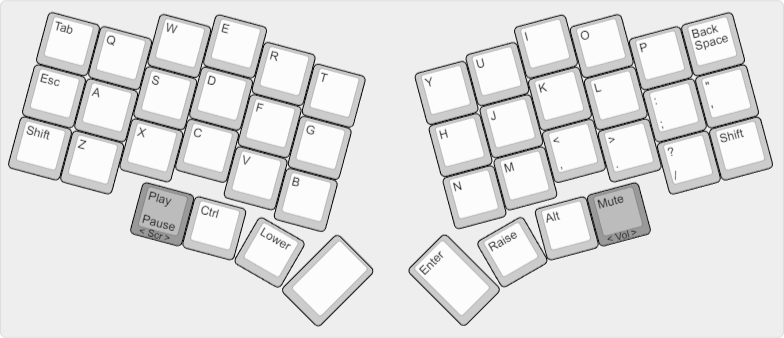
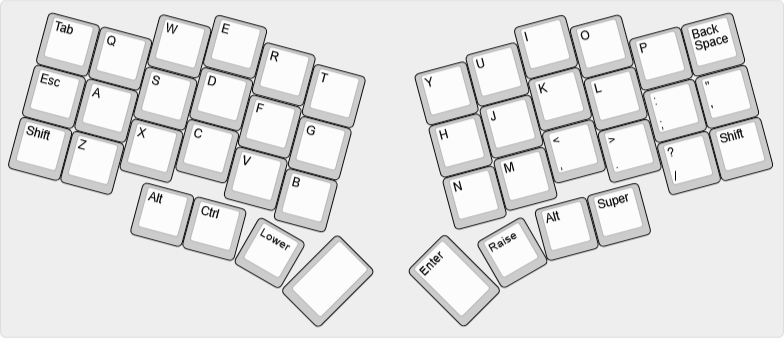
Standardize ergo bottom row keys

diff --git a/keyboards/yanghu/unicorne/keymaps/bcat/keymap.c b/keyboards/yanghu/unicorne/keymaps/bcat/keymap.c
@@ -15,7 +15,7 @@ const uint16_t PROGMEM keymaps[][MATRIX_ROWS][MATRIX_COLS] = {
         KC_TAB,   KC_Q,     KC_W,     KC_E,     KC_R,     KC_T,                         KC_Y,     KC_U,     KC_I,     KC_O,     KC_P,     KC_BSPC,
         KC_ESC,   KC_A,     KC_S,     KC_D,     KC_F,     KC_G,                         KC_H,     KC_J,     KC_K,     KC_L,     KC_SCLN,  KC_QUOT,
         KC_LSFT,  KC_Z,     KC_X,     KC_C,     KC_V,     KC_B,                         KC_N,     KC_M,     KC_COMM,  KC_DOT,   KC_SLSH,  KC_RSFT,
-                                      KC_MPLY,  KC_LCTL,  TL_LOWR,  KC_SPC,   KC_ENT,   TL_UPPR,  KC_RALT,  KC_MUTE
+                                      KC_LALT,  KC_LCTL,  TL_LOWR,  KC_SPC,   KC_ENT,   TL_UPPR,  KC_RALT,  KC_RGUI
     ),
     [LAYER_LOWER] = LAYOUT(
         CC_ALTT,  KC_EXLM,  KC_AT,    KC_HASH,  KC_DLR,   KC_PERC,                      KC_CIRC,  KC_AMPR,  KC_ASTR,  KC_LPRN,  KC_RPRN,  _______,
@@ -37,21 +37,6 @@ const uint16_t PROGMEM keymaps[][MATRIX_ROWS][MATRIX_COLS] = {
     ),
     // clang-format on
 };
-
-bool encoder_update_user(uint8_t index, bool clockwise) {
-    switch (index) {
-        case 0:
-            // Left encoder (scrolling):
-            tap_code(clockwise ? KC_PGDN : KC_PGUP);
-            return false;
-        case 1:
-            // Right encoder (volume):
-            tap_code(clockwise ? KC_VOLU : KC_VOLD);
-            return false;
-        default:
-            return true;
-    }
-}
 
 #if defined(OLED_ENABLE)
 oled_rotation_t oled_init_user(oled_rotation_t rotation) {

diff --git a/keyboards/yanghu/unicorne/keymaps/bcat/README.md b/keyboards/yanghu/unicorne/keymaps/bcat/README.md
@@ -1,7 +1,7 @@
 # bcat's Unicorne layout
 
 The [Unicorne](https://github.com/yanghu/unicorne) keyboard is an un-split Crkbd
-with slightly altered columbar stagger and two extra thumb keys (including
+with slightly altered columnar stagger and two extra thumb keys (including
 rotary encoder compatibility).
 
 <details>
@@ -9,9 +9,10 @@ rotary encoder compatibility).
 
 * Based on [split 3x6+3](/layouts/split_3x6_3/bcat) layout. See that page for
   detailed rationale on keymap design.
-* I built my Unicorne with rotary encoders: The left scrolls vertically and the
-  right adjusts volume. These were a fun gimmick at first, but in retrospect,
-  I'd prefer to use that as Alt and Super keys instead.
+* I built my Unicorne without encoders, as I've always found them a fun gimmick,
+  but not something I regularly use.
+* Instead, the extra bottom row keys are mapped to Alt and Super for
+  convenience, just as they are on my [Altair-X](/keyboards/ai03/altair_x/bcat).
 * Since the Unicorne has a speaker, I added bindings on the Adjust layer to
   activate and configure QMK's [music
   mode](https://docs.qmk.fm/features/audio#music-mode).

diff --git a/keyboards/eco/keymaps/bcat/README.md b/keyboards/eco/keymaps/bcat/README.md
@@ -8,13 +8,13 @@ on a Pro Micro (or compatible) controller.
 
 * Based on [split 3x6+3](/layouts/split_3x6_3/bcat) layout. See that page for
   detailed rationale on keymap design.
-* The alpha keys are separated by an extra two columns in the middle to provide
-  a little more hand separation, similar to a split keyboard.
+* The alpha keys are spaced around the middle two columns, providing a little
+  more hand separation, similar to a split keyboard.
 * The top three rows of the extra middle columns feature navigation keys and
   brackets/braces. I don't really use dedicated keys for these, but I had the
   keycaps, so I figured I may as well put them there.
 * I have a Left Alt and Right Super key on the bottom row just like my
-  [Lily58](/keyboards/lily58/keymaps/bcat).
+  [Altair-X](/keyboards/ai03/altair_x/keymaps/bcat).
 * The two keys in each bottom corner are unbound, as is the 2U spacebar in the
   center of the bottom row. These keys are too inconvenient to reach, and
   there's nothing really useful to bind them to anyway.

diff --git a/keyboards/lily58/keymaps/bcat/README.md b/keyboards/lily58/keymaps/bcat/README.md
@@ -13,9 +13,9 @@ per side.
 * The dedicated Hyphen/Underscore and Equals/Plus keys on the number row are
   placed in the same positions as on the ErgoDox EZ. (There's no real reason for
   this; I just had to do _something_ with those keys.)
-* The extra thumb keys on the bottom row are used for a Left Alt key (for easier
-  Alt+Tab, Alt+F4, etc.) and a dedicated Super key.
-* The extra thumb keys below the controllers are bound to browser zoom keys.
+* The extra bottom row keys are mapped to Alt and Super for convenience, just as
+  they are on my [Altair-X](/keyboards/ai03/altair_x/bcat).
+* The additional keys below the controllers are bound to browser zoom keys.
 </details>
 
 | Default layer ([KLE](http://www.keyboard-layout-editor.com/#/gists/e0eb3af65961e9fd612dcff3ddd88e4f)) |
